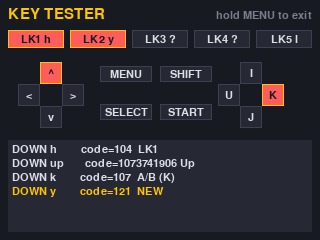
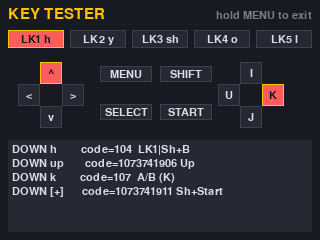
KeyTester: use the verified Lightkey and SHIFT key map
LK1-LK5 send h, y, (nothing: it is a second SHIFT), o, l, the same
letters as SHIFT+B/Y/X/A. Document the full map in the README.

Claude-Session: https://claude.ai/code/session_0144MYi2aJC4DMFw7TR4gpLC

diff --git a/Tools/KeyTester/src/main.py b/Tools/KeyTester/src/main.py
@@ -43,19 +43,27 @@ KNOWN = {
     pygame.K_i: "Y/X (I)",
     pygame.K_j: "B/A (J)",
     pygame.K_k: "A/B (K)",
-    pygame.K_h: "LK1",
-    pygame.K_l: "LK5",
+    # Back Lightkey bar (verified on a real GameShell). The centre key
+    # (LK3) is a second hardware SHIFT and sends nothing by itself.
+    # The same letters are also sent by SHIFT + a face button.
+    pygame.K_h: "LK1|Sh+B",
+    pygame.K_y: "LK2|Sh+Y",
+    pygame.K_o: "LK4|Sh+X",
+    pygame.K_l: "LK5|Sh+A",
+    # Other SHIFT combos
+    pygame.K_KP_PLUS: "Sh+Start",
+    pygame.K_KP_MINUS: "Sh+Select",
+    pygame.K_BACKSPACE: "Sh+Menu",
 }
 
 # On-screen button widgets: name -> (rect, keys that light it)
 BUTTONS = [
-    # Lightkey bar (back side). Only LK1/LK5 are documented; the middle
-    # three light up with whatever key they send (see "learned" below).
-    ("LK1", (8, 30, 56, 18), [pygame.K_h]),
-    ("LK2", (70, 30, 56, 18), []),
-    ("LK3", (132, 30, 56, 18), []),
-    ("LK4", (194, 30, 56, 18), []),
-    ("LK5", (256, 30, 56, 18), [pygame.K_l]),
+    # Lightkey bar (back side). LK3 is SHIFT: it never lights here.
+    ("LK1 h", (8, 30, 56, 18), [pygame.K_h]),
+    ("LK2 y", (70, 30, 56, 18), [pygame.K_y]),
+    ("LK3 sh", (132, 30, 56, 18), []),
+    ("LK4 o", (194, 30, 56, 18), [pygame.K_o]),
+    ("LK5 l", (256, 30, 56, 18), [pygame.K_l]),
     # D-pad
     ("^", (40, 62, 22, 22), [pygame.K_UP]),
     ("v", (40, 106, 22, 22), [pygame.K_DOWN]),
@@ -66,9 +74,9 @@ BUTTONS = [
     ("K", (262, 84, 22, 22), [pygame.K_k]),
     ("U", (218, 84, 22, 22), [pygame.K_u]),
     ("J", (240, 106, 22, 22), [pygame.K_j]),
-    # Middle row
+    # Middle row (SHIFT is a hardware modifier: it sends no key itself)
     ("MENU", (100, 66, 52, 16), [pygame.K_ESCAPE]),
-    ("SHIFT", (160, 66, 52, 16), [pygame.K_LSHIFT, pygame.K_RSHIFT]),
+    ("SHIFT", (160, 66, 52, 16), []),
     ("SELECT", (100, 104, 52, 16), [pygame.K_SPACE]),
     ("START", (160, 104, 52, 16), [pygame.K_RETURN]),
 ]
@@ -86,7 +94,6 @@ class App(object):
         self.big = pygame.font.Font(None, 22)
         self.down = set()           # currently held keys
         self.log = []               # recent events (text, colour)
-        self.lk_learned = {}        # "LK2" -> key code, assigned on the fly
         self.menu_down_at = None
         self.joy_buttons = set()
         self.joys = []
@@ -110,29 +117,14 @@ class App(object):
             self.logf.write(text + "\n")
             self.logf.flush()
 
-    def learn_lightkey(self, key):
-        """Unknown keys get assigned to the first free middle Lightkey slot
-        so the on-screen bar shows what each back button sends."""
-        if key in KNOWN or key in (pygame.K_LSHIFT, pygame.K_RSHIFT):
-            return
-        if key in self.lk_learned.values():
-            return
-        for slot in ("LK2", "LK3", "LK4"):
-            if slot not in self.lk_learned:
-                self.lk_learned[slot] = key
-                return
-
     def handle(self, ev):
         if ev.type == pygame.QUIT:
             self.running = False
         elif ev.type == pygame.KEYDOWN:
             self.down.add(ev.key)
-            self.learn_lightkey(ev.key)
             meaning = KNOWN.get(ev.key, "NEW")
-            mods = pygame.key.get_mods()
-            mod_txt = " +shift" if mods & pygame.KMOD_SHIFT else ""
-            self.add_log("DOWN %-8s code=%-4d %s%s" % (
-                key_label(ev.key), ev.key, meaning, mod_txt),
+            self.add_log("DOWN %-8s code=%-4d %s" % (
+                key_label(ev.key), ev.key, meaning),
                 ACCENT if meaning == "NEW" else TEXT)
             if ev.key == pygame.K_ESCAPE:
                 self.menu_down_at = pygame.time.get_ticks()
@@ -166,16 +158,11 @@ class App(object):
         self.screen.blit(surf, r)
 
     def draw_button(self, name, rect, keys):
-        if name in self.lk_learned:
-            keys = [self.lk_learned[name]]
         lit = any(k in self.down for k in keys)
         r = pygame.Rect(rect)
         pygame.draw.rect(self.screen, HOT if lit else PANEL, r)
         pygame.draw.rect(self.screen, ACCENT if lit else LINE, r, 1)
-        label = name
-        if name.startswith("LK"):
-            label = "%s %s" % (name, key_label(keys[0]) if keys else "?")
-        self.text(label, r.center, BG if lit else TEXT, center=True)
+        self.text(name, r.center, BG if lit else TEXT, center=True)
 
     def draw(self):
         s = self.screen
@@ -217,7 +204,7 @@ def main():
 
     shot = os.environ.get("KEYTESTER_SHOT")  # used to render the store shot
     if shot:
-        for k in (pygame.K_h, pygame.K_UP, pygame.K_k, pygame.K_y):
+        for k in (pygame.K_h, pygame.K_UP, pygame.K_k, pygame.K_KP_PLUS):
             app.handle(pygame.event.Event(pygame.KEYDOWN, key=k, mod=0))
         app.draw()
         pygame.image.save(screen, shot)

diff --git a/README.md b/README.md
@@ -61,8 +61,22 @@ lanciato prima di ogni commit.
 
 - Python di sistema: **Python 2** con pygame 1.9. Il codice deve restare
   compatibile con Python 2 e 3.
-- Tasti visti da pygame: frecce = frecce, MENU = `Esc`, SELECT = `Space`,
-  START = `Enter`, A/B/X/Y = `K J I U` (layout SNES), Lightkey 1 = `H`,
-  Lightkey 5 = `L`. Le altre tre Lightkey vanno scoperte con KeyTester, che
-  le salva anche in `keylog.txt` nella sua cartella.
+- Mappa dei tasti vista da pygame (verificata con KeyTester):
+
+  | Tasto                  | Invia                 | Note |
+  |------------------------|-----------------------|------|
+  | Frecce                 | `Up Down Left Right`  | |
+  | A / B / X / Y          | `K` / `J` / `I` / `U` | layout SNES; con il layout Xbox A/B e X/Y si scambiano |
+  | MENU / SELECT / START  | `Esc` / `Space` / `Enter` | |
+  | SHIFT                  | niente                | modificatore hardware |
+  | Lightkey 1 (sinistra)  | `H`                   | uguale a SHIFT+B |
+  | Lightkey 2             | `Y`                   | uguale a SHIFT+Y |
+  | Lightkey 3 (centro)    | niente                | è un secondo SHIFT |
+  | Lightkey 4             | `O`                   | uguale a SHIFT+X |
+  | Lightkey 5 (destra)    | `L`                   | uguale a SHIFT+A |
+  | SHIFT+START / SELECT / MENU | `KP+` / `KP-` / `Backspace` | |
+
+  Un gioco quindi non distingue una Lightkey dalla combinazione SHIFT
+  equivalente, e non può leggere SHIFT o la Lightkey centrale da soli.
+  KeyTester salva i tasti premuti in `keylog.txt` nella sua cartella.
 - I giochi installati finiscono in `~/aria2download/raxp122/ClockworkGameShell/master/…`.
